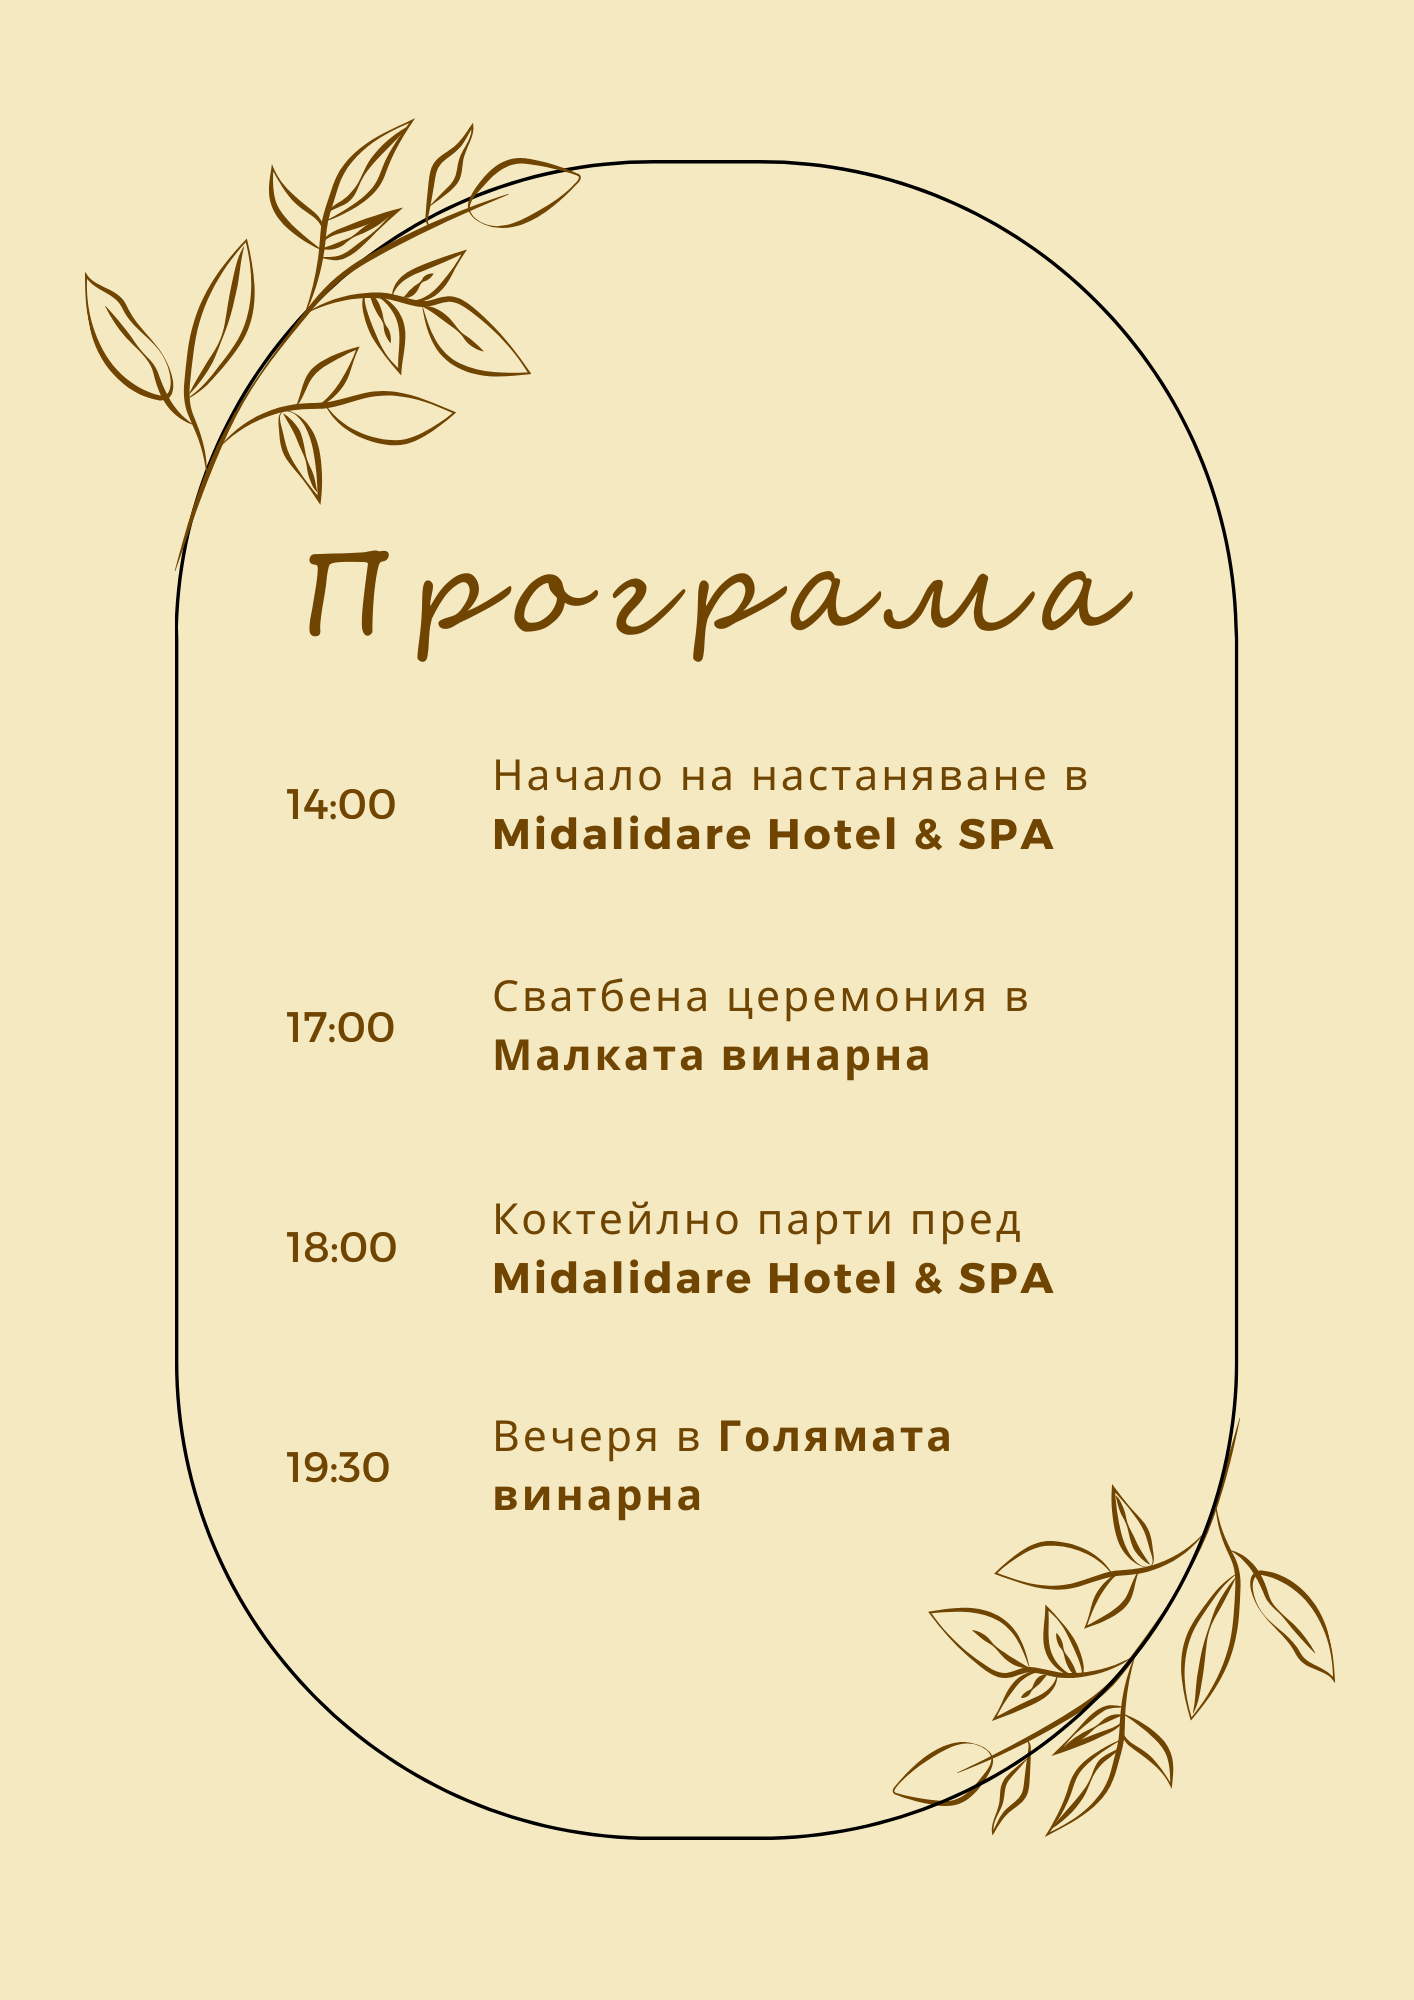
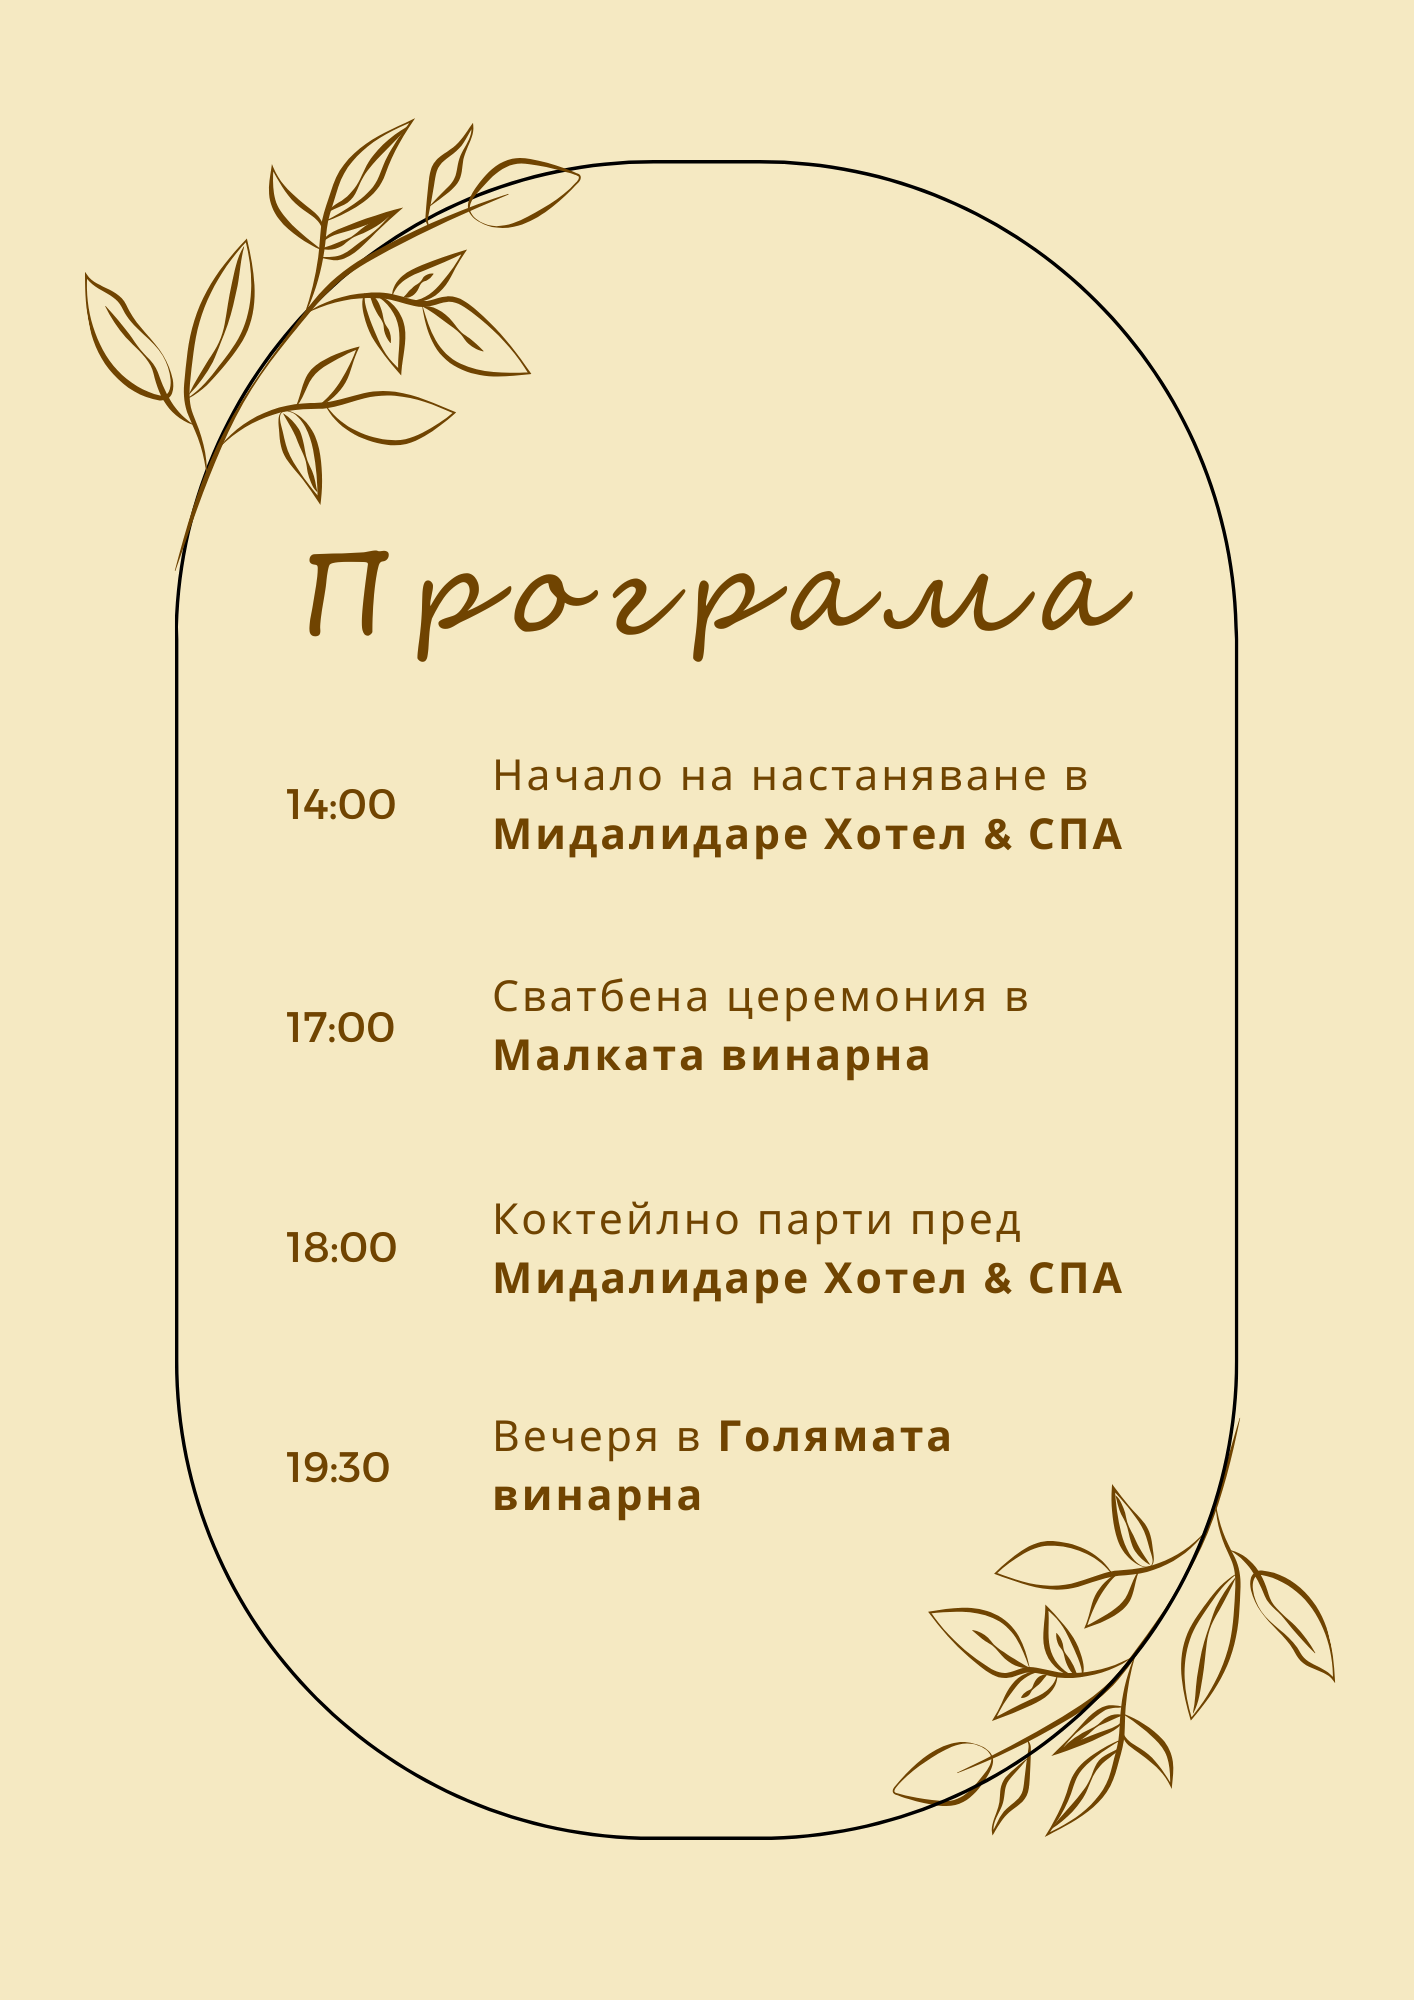
translation

Changed region(s): [[0.3423, 0.62, 0.8091, 0.651], [0.3423, 0.403, 0.8091, 0.434]]

diff --git a/index.html b/index.html
@@ -63,10 +63,7 @@
     
         <div class="location-row">
             <div class="location-text">
-                <p>За нашия прекрасен ден избрахме Midalidare Estate, разположено в живописното село Могилово, в област Стара Загора. Това е място, съчетаващо в себе си история, традиции и природна красота.
-                </br>
-                </br>
-                    На територията на имението се намират две ключови локации, които ще направят сватбата ни незабравима. Освен това централно място заема Midalidare Hotel & Spa, където ще настаним нашите гости, за да могат да се насладят на уюта и комфорта на това прекрасно кътче.</p>
+                <p>За нашия прекрасен ден избрахме Мидалидаре Естейт, разположено в живописното село Могилово, област Стара Загора. Това е място, съчетаващо в себе си история, традиции и природна красота.</p>
             </div>
             <img src="uploads/hotel.jpg">
         </div>
@@ -74,13 +71,16 @@
         <div class="location-row alternate">
             <img src="uploads/smallWinery.jpg">
             <div class="location-text">
-                <p>Малката винарна е мястото, където ще се проведе нашата гражданска церемония. Разположена е в сърцето на лозовите масиви и предлага уникална природна гледка, която ще остави спомен за цял живот. </p>
+                <p>На територията на имението се намират две ключови локации, които ще направят сватбата ни незабравима. 
+                </br>
+                </br>
+                Малката винарна е мястото, където ще се проведе тържествената гражданска церемония. Разположена е в сърцето на лозовите масиви и предлага уникална природна гледка, която ще остави спомен за цял живот. </p>
             </div>
         </div>
     
         <div class="location-row">
             <div class="location-text">
-                <p>Голямата винарна е впечатляваща с величествения си интериор, който съчетава класическа елегантност и съвременен стил. Тази локация ще бъде домакин на нашата вечеря, където ще се насладим на кулинарни изкушения, приготвени с внимание и грижа. Гостите ще се потопят в уютната и вълнуваща обстановка, докато се наслаждават на изискани ястия и вина, произведени именно тук.</p>
+                <p>Голямата винарна е впечатляваща с величествения си интериор, който съчетава класическа елегантност и съвременен стил. Тази локация ще бъде домакин на нашата вечеря, където ще се насладим на изискани ястия и вина, произведени именно тук.</p>
             </div>
             <img src="uploads/location.jpg">
         </div>
@@ -109,20 +109,17 @@
     
         <div class="details-container">
             <div class="details-bottom-row">
+
                 <div class="detail-item">
-                    <h2>Нашият екип</h2>
+                    <h2>Настаняване</h2>
                     <div class="underline"></div>
-                    <ul>
-                        <li><a href="https://georgestratiev.com/">Фотограф - Георги Стратиев</a></li>
-                        <li><a href="https://plamenbijev.com/">Виедограф - Пламен Бижев</a></li>
-                        <li><a href="https://djivcho.com/">DJ и водещ - Иво Стоянов</a></li>
-                        <li><a href="https://hotel.midalidare.bg/page/2/%D0%9A%D0%BE%D0%BD%D1%82%D0%B0%D0%BA%D1%82%D0%B8.html">Представител на Мидалидаре Естейт - Христина Христова</a></li>
-                    </ul>
+                    <p>Мястото на нашата сватба е на около час път от гр. Пловдив, затова бихме искали да Ви улесним и поканим да останете за нощувка като наши гости. Ако желаете да пренощувате, моля го отбележете в анкетата.</p>
                 </div>
+
                 <div class="detail-item">
                     <h2>Цветя</h2>
                     <div class="underline"></div>
-                    <p>Нашият прекрасен екип от Мидалидаре Естейт се е погрижил денят ни да бъде пъстър и красив, с изобилие от свежи цветя. Молим ви да не носите допълнително други, а да ги оставите да бъдат красиви там, където са.</p>
+                    <p>Прекрасният ни екип от Мидалидаре Естейт се е погрижил денят да бъде пъстър и красив, с изобилие от свежи цветя. Молим Ви да не носите допълнително други.</p>
                 </div>
                 <div class="detail-item">
                     <h2>Време</h2>
@@ -135,12 +132,18 @@
                 <div class="detail-item">
                     <h2>Подаръци</h2>
                     <div class="underline"></div>
-                    <p>Най-големият подарък за нас е вашето присъствие и подкрепа в специалния ни ден. Ако все пак желаете да ни уважите чрез подарък, всеки принос към нашето съвместно бъдеще ще бъде дълбоко оценен.</p>
+                    <p>Най-големият подарък за нас е Вашето присъствие и подкрепа в специалния ни ден. Ако все пак желаете да ни уважите чрез подарък, всеки принос към нашето съвместно бъдеще ще бъде дълбоко оценен.</p>
                 </div>
+                
                 <div class="detail-item">
-                    <h2>Настаняване</h2>
+                    <h2>Нашият екип</h2>
                     <div class="underline"></div>
-                    <p>Мястото на нашата сватба е на около час път от гр. Пловдив, затова бихме искали да ви улесним и поканим да останете за нощувка като наши гости. Ако желаете да пренощувате, моля го отбележете в анкетата, за да направим необходимата организация.</p>
+                    <ul>
+                        <li><a href="https://georgestratiev.com/">Фотограф - Георги Стратиев</a></li>
+                        <li><a href="https://plamenbijev.com/">Виедограф - Пламен Бижев</a></li>
+                        <li><a href="https://djivcho.com/">DJ и водещ - Иво Стоянов</a></li>
+                        <li><a href="https://hotel.midalidare.bg/page/2/%D0%9A%D0%BE%D0%BD%D1%82%D0%B0%D0%BA%D1%82%D0%B8.html">Представител на Мидалидаре Естейт - Христина Христова</a></li>
+                    </ul>
                 </div>
             </div>
         </div>

diff --git a/assets/css/style.css b/assets/css/style.css
@@ -232,7 +232,7 @@ h1 {
     display: flex;
     justify-content: center;
     gap: 100px;
-    width: 60%;
+    width: 40%;
 }
 
 .detail-item {
